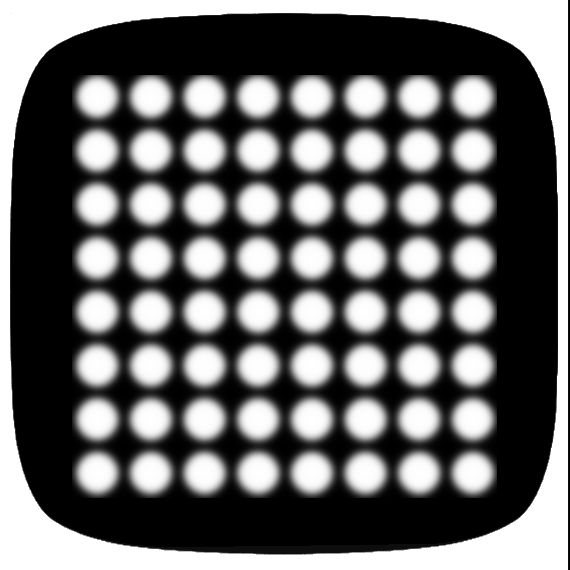
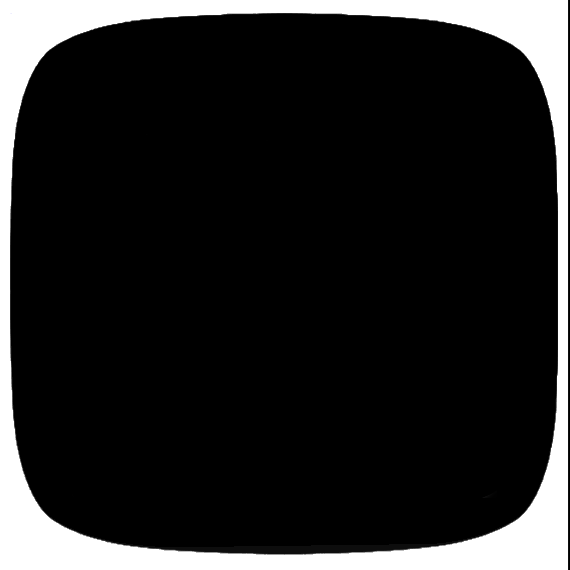
Update blitter site from main

diff --git a/blitter/index.html b/blitter/index.html
@@ -193,8 +193,9 @@ canvas {
 			<div class="form-group row">
 				<label class="col-form-label">Mirror</label>
 				<div id="mirrorWrap" class="disabled" style="position: relative; width: 173px; aspect-ratio: 1 / 1; border-radius: 12px; overflow: hidden; flex: 0 0 auto;">
+					<img src="img/tv.png" alt="TV" style="position: absolute; top: 0; left: 0; width: 173px; height: 173px; z-index: -1; object-fit: contain;" />
 					<canvas id="screencanvas"
-						style="position: relative; z-index: 0; background-color: #000; width: 100%; height: 100%;"></canvas>
+						style="position: relative; z-index: 0; background-color: #000; width: 100%; height: 100%; transform: scale(0.8); transform-origin: center center;"></canvas>
 					<div id="overlay"
 						style="background-size: contain; position: absolute; top: 0; left: 0; width: 100%; height: 100%; z-index: 1;"></div>
 				</div>
@@ -249,7 +250,7 @@ canvas {
 		crossorigin="anonymous"></script>
 	<script src="https://cdn.jsdelivr.net/npm/@jaames/iro/dist/iro.min.js"></script>
 </body>
-<script src="js/blitter.js?v=61aae5d"></script>
+<script src="js/blitter.js?v=d28bddd"></script>
 </html>
 
 
